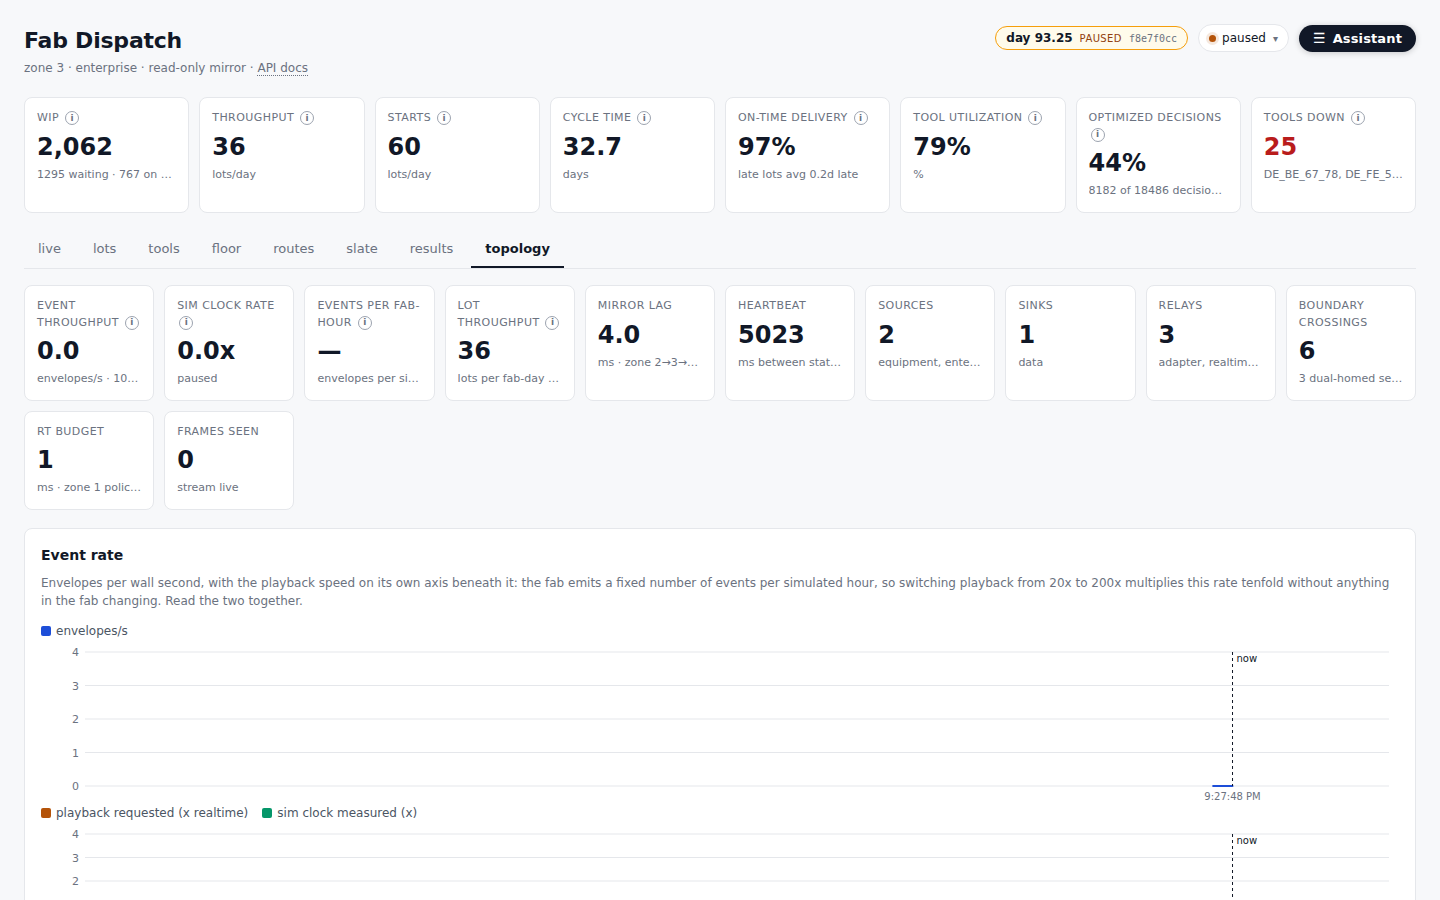
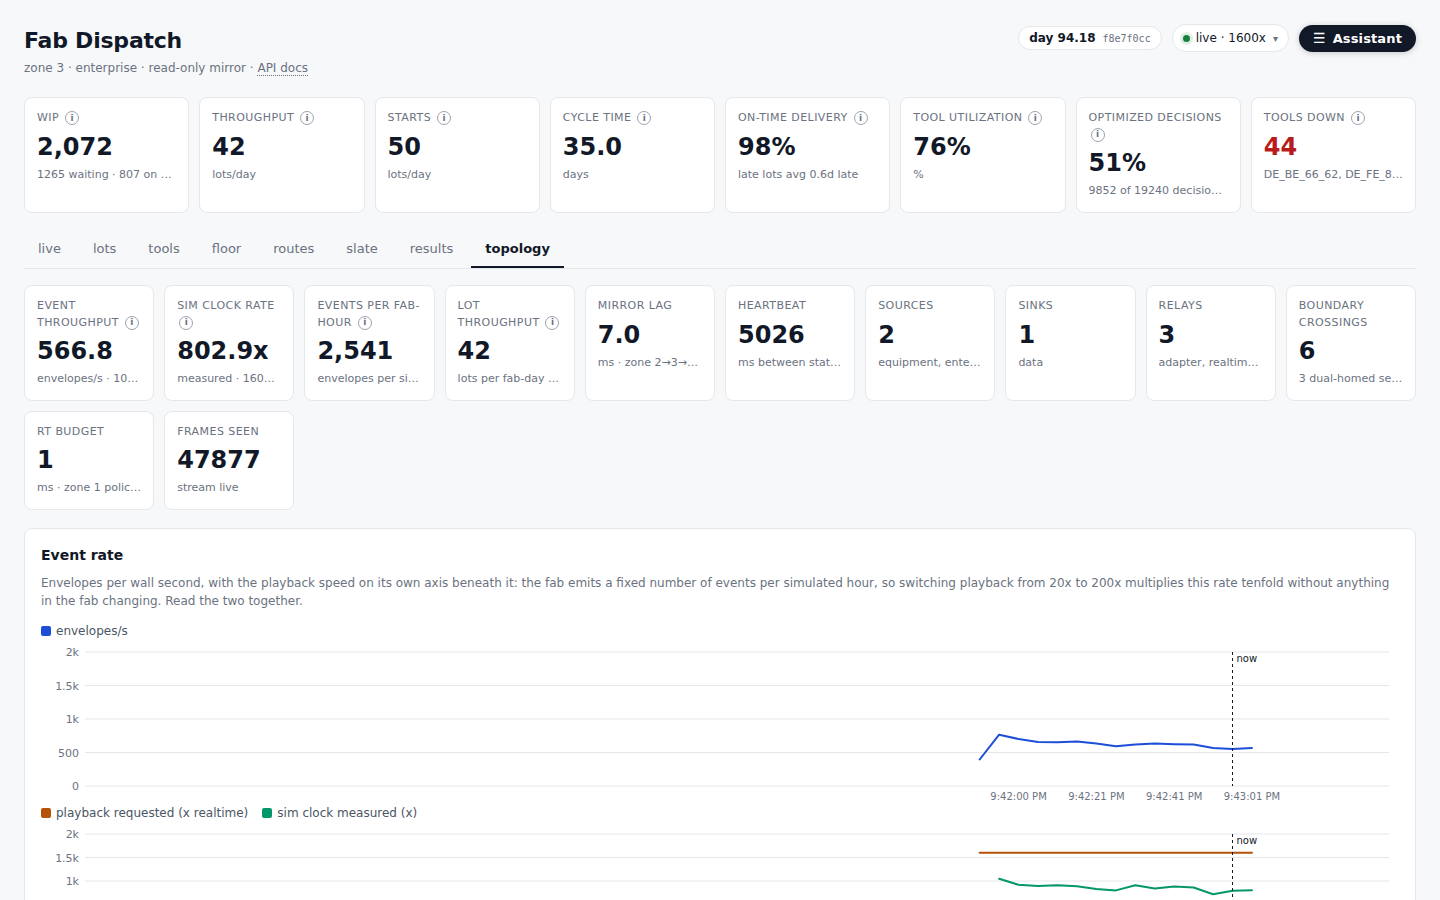
README tour: topology captured live, with the measured-vs-requested clock rate
Claude-Session: https://claude.ai/code/session_013AEQWXnqfUe5GqHVavaMmw

diff --git a/README.md b/README.md
@@ -134,10 +134,13 @@ This is the page the whole project exists to fill honestly — see
 ### Topology — the pipeline itself
 ![topology](docs/screenshots/topology.png)
 
-The four security zones and the stream between them: event throughput,
-simulated clock rate against the requested playback speed, mirror lag from
-zone 2 to zone 3, and which services straddle a boundary. When the fab
-looks wrong, this is where to check whether it is the fab or the pipe.
+The four security zones and the stream between them: event throughput
+(~570 envelopes/s here), the simulated clock rate *measured* against the
+playback speed *requested* — 803x against 1600x, because the CP-SAT slate
+cannot plan faster than that, so the gap is the solver's cost in fab time
+— mirror lag from zone 2 to zone 3, frames seen, and which services
+straddle a boundary. When the fab looks wrong, this is where to check
+whether it is the fab or the pipe.
 
 ## Architecture
 
